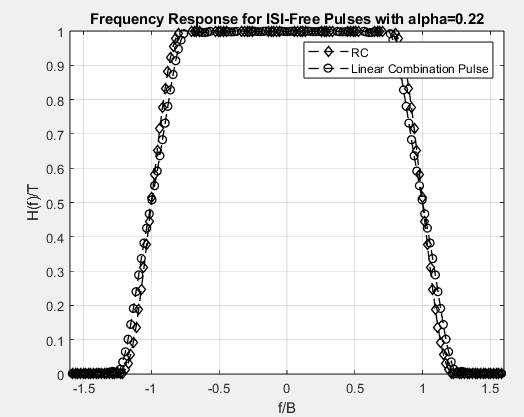
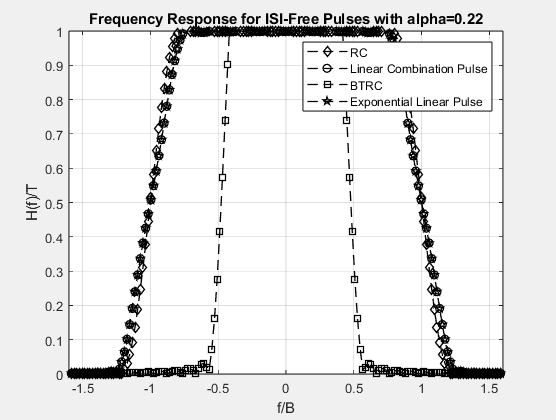
cambios funciones

diff --git a/EL7041 Comu Avan/P1/Impulse_Frequency_Responses.m b/EL7041 Comu Avan/P1/Impulse_Frequency_Responses.m
@@ -52,20 +52,22 @@ Linear_Combination_Pulse_PLP_Spectrum_dB = 20*log10((fft(Linear_Combination_Puls
 
 %EXPONENTIAL LINEAR PULSE
 constante=1; %alpha
-beta = 0.1 %Beta
+beta = 0.1; %Beta
 
 
-Exp2_Num=constante*sin(pi*[-fs:1/fs:fs]).*sin(pi*alpha*[-fs:1/fs:fs]); %PLP
-Exp2_Den=pi^2*alpha*[-fs:1/fs:fs].^2;
-Exp2DenZero=find(abs(Exp2_Den) < 10^-10);
-Exp2_Total=Exp2_Num./Exp2_Den;
-Exp2_Total(Exp2DenZero)=0.5;
+Exp2_2_Num=constante*sin(pi*[-fs:1/fs:fs]).*sin(pi*alpha*[-fs:1/fs:fs]); %PLP
+Exp2_2_Den=pi^2*alpha*[-fs:1/fs:fs].^2;
+Exp2_2DenZero=find(abs(Exp2_2_Den) < 10^-10);
+Exp2_2_Total=Exp2_2_Num./Exp2_Den;
+Exp2_Total(Exp2_2DenZero)=1;
 
-Exp3 = exp(-pi*(beta/2)*[-fs:1/fs:fs])
+Exp3 = exp(-pi*(beta/2)*[-fs:1/fs:fs].^2);
 
+Exp3_Zero=find(abs(Exp3) < 10^-10);
+Exp3(Exp3_Zero) = 1;
 
-
-Exponential_Linear_Pulse=( Exp3.*Exp2_Total);
+Exponential_Linear_Pulse=( Exp3.*Exp2_2_Total);
+Exponential_Linear_Pulse(isnan(Exponential_Linear_Pulse))=1;
 Exponential_Linear_Pulse_Spectrum=(abs((fft(Linear_Combination_Pulse_PLP,NFFT))/fs));
 Exponential_Linear_Pulse_Spectrum_dB = 20*log10((fft(Linear_Combination_Pulse_PLP,1024))/fs);
 
@@ -77,19 +79,24 @@ Exponential_Linear_Pulse_Spectrum_dB = 20*log10((fft(Linear_Combination_Pulse_PL
 beta2 = (pi * alpha) / log(2);
 
 % Calculate the sinc expression
-sinc_BTRC = sin([-fs:1/fs:fs])./[-fs:1/fs:fs];
-sinc_BTRC_zero=find(abs(sinc_BTRC) < 10^-10);
+sinc_BTRC_num = sin([-fs:1/fs:fs]);
+sinc_BTRC_den = [-fs:1/fs:fs];
+sinc_BTRC_tot = sinc_BTRC_num./sinc_BTRC_den;
+sinc_BTRC_tot_zero=find(abs(sinc_BTRC_tot) < 10^-10);
 
 % Calculate the second expression for BTRC
 numerador_second_BTRC = (2 * beta2 * [-fs:1/fs:fs]) .* sin(pi * alpha * [-fs:1/fs:fs]);
-numerador_second_BTRC = numerador_second_BTRC + 2 .* cos(pi * alpha * [-fs:1/fs:fs]) - 1;
+numerador_second_BTRC = numerador_second_BTRC + (2 .* cos(pi * alpha * [-fs:1/fs:fs]) - 1);
 
 % Never 0
 denominador_second_BTRC = (beta2 * [-fs:1/fs:fs]).^2 + 1;
 
 % Get the BTRC Pulse
-BTRC = sinc_BTRC .* numerador_second_BTRC ./ denominador_second_BTRC;
-BTRC(sinc_BTRC_zero) = numerador_second_BTRC / denominador_second_BTRC;
+BTRC = ((sinc_BTRC_tot .* numerador_second_BTRC) ./ denominador_second_BTRC);
+%BTRC = arrayfun(@(x) BTRC(x,alpha),[-fs:1/fs:fs]);
+BTRC(isnan(BTRC))=1;
+BTRC(sinc_BTRC_tot_zero) = (numerador_second_BTRC(sinc_BTRC_tot_zero) / denominador_second_BTRC(sinc_BTRC_tot_zero));
+
 BTRC_Pulse_Spectrum=(abs((fft(BTRC,NFFT))/fs));
 BTRC_Pulse_Spectrum_dB = 20*log10((fft(BTRC,1024))/fs);
 
@@ -110,7 +117,7 @@ plot([-fs:1/fs:fs],[Exponential_Linear_Pulse],'--kp','LineWidth',1)
 hold on
 
 title('Impulse Response for ISI-Free Pulses with alpha='+string(alpha),'LineWidth',.1);
-legend('RC', 'Linear Combination Pulse', 'BTRC', 'Exponential Linear Pulse PLP');
+legend('RC', 'Linear Combination Pulse', 'BTRC', 'Exponential Linear Pulse');
 axis([0 3 -.2 1.1])
 hold all
 
@@ -130,7 +137,7 @@ hold on
 plot(FPulse*fs*2, fftshift(Exponential_Linear_Pulse_Spectrum),'--kp','LineWidth',1);
 hold on
 title('Frequency Response for ISI-Free Pulses with alpha='+string(alpha),'LineWidth',.1);
-legend('RC', 'Linear Combination Pulse', 'BTRC', 'Exponential Linear Pulse PLP');
+legend('RC', 'Linear Combination Pulse', 'BTRC', 'Exponential Linear Pulse');
 axis([-1.6 1.6 0 1])
 
 grid on
@@ -174,13 +181,3 @@ ylabel('H(f)/T')
 % hold on
 % grid on
 % legend('Linear Combination Pulse');
-
-
-function [y]=sinc_m(x)
-    if x==0
-        y=[1]
-    else
-        y = (sin([x])/[x])
-        
-    end
-end

diff --git a/EL7041 Comu Avan/P1/Primer_Criterio_de_Nyquist_BER_due_to_ISI_Betther_than_Raised_Cosine_Pulse/BTRC.m b/EL7041 Comu Avan/P1/Primer_Criterio_de_Nyquist_BER_due_to_ISI_Betther_than_Raised_Cosine_Pulse/BTRC.m
@@ -6,7 +6,7 @@ T=1;
 beta = (pi * alpha) / log(2);
 
 % Calculate the sinc expression
-sinc_BTRC = sinc(t / T);
+sinc_BTRC = sin(t / T);
 
 % Calculate the second expression for BTRC
 numerador_second_BTRC = (2 * beta * (t / T)) * sin(pi * alpha * (t / T));
